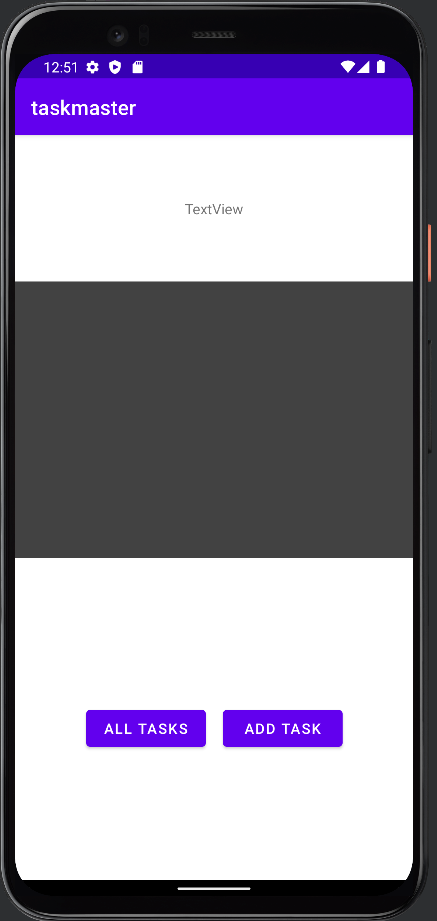
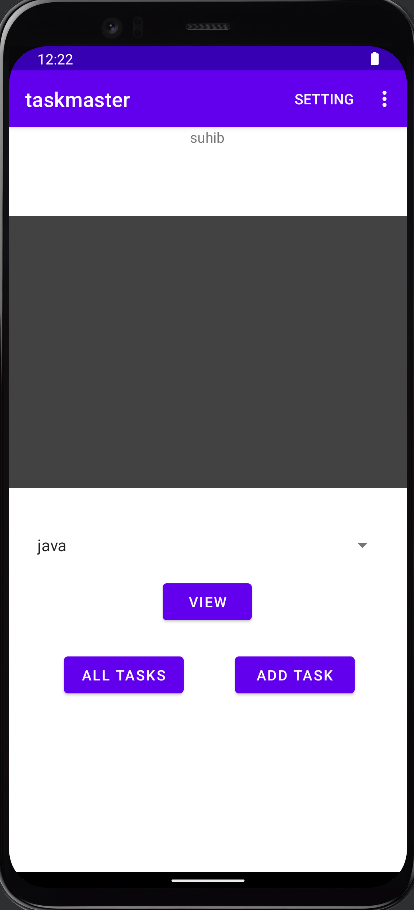
made the settig and task details

diff --git a/README.md b/README.md
@@ -13,3 +13,11 @@ the app have a three pages.
 ## 3- All Task page
 
 ![AllTasks](./img/TaskMasterAllTasks.png)
+
+## 4- Setting page
+
+![setteng](./img/TaskMasterSetting.png)
+
+## 5- Task Details page
+
+![Task Details](./img/TaskMasterTaskDetails.png)
